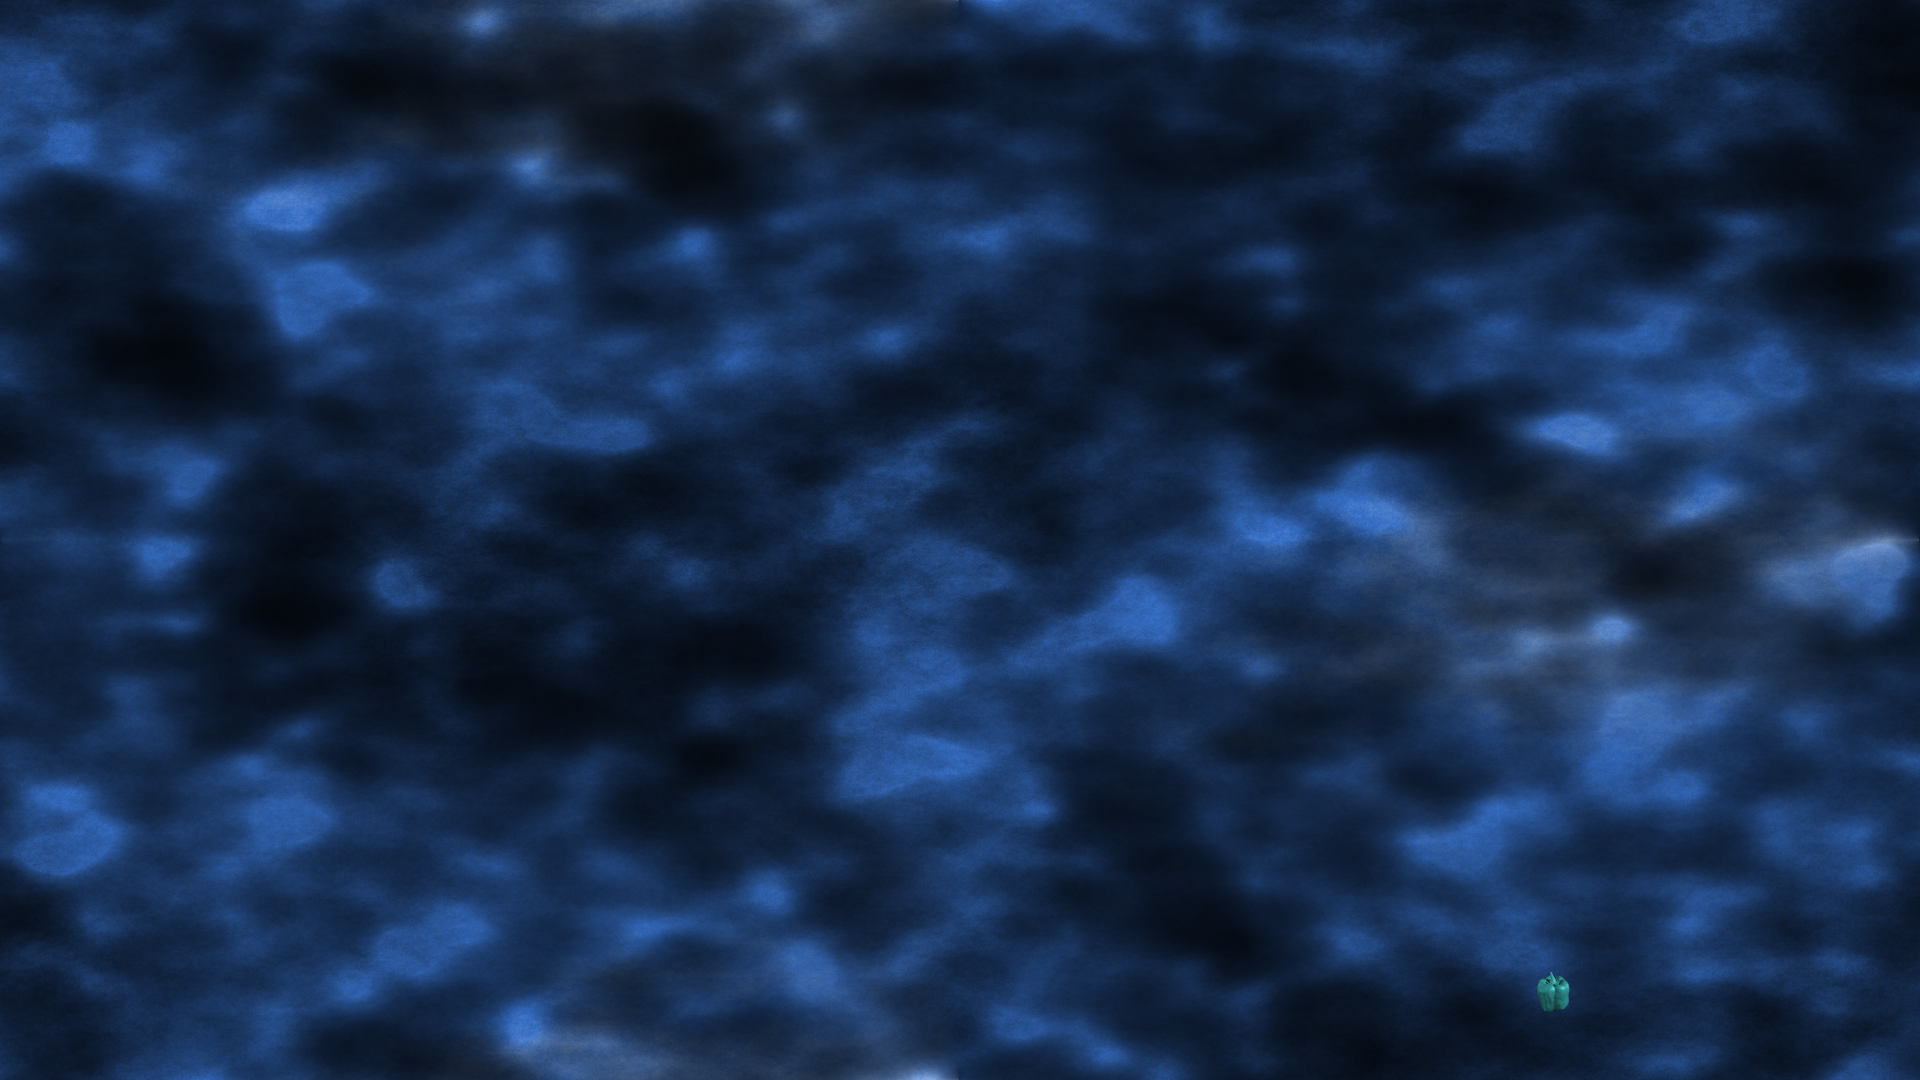
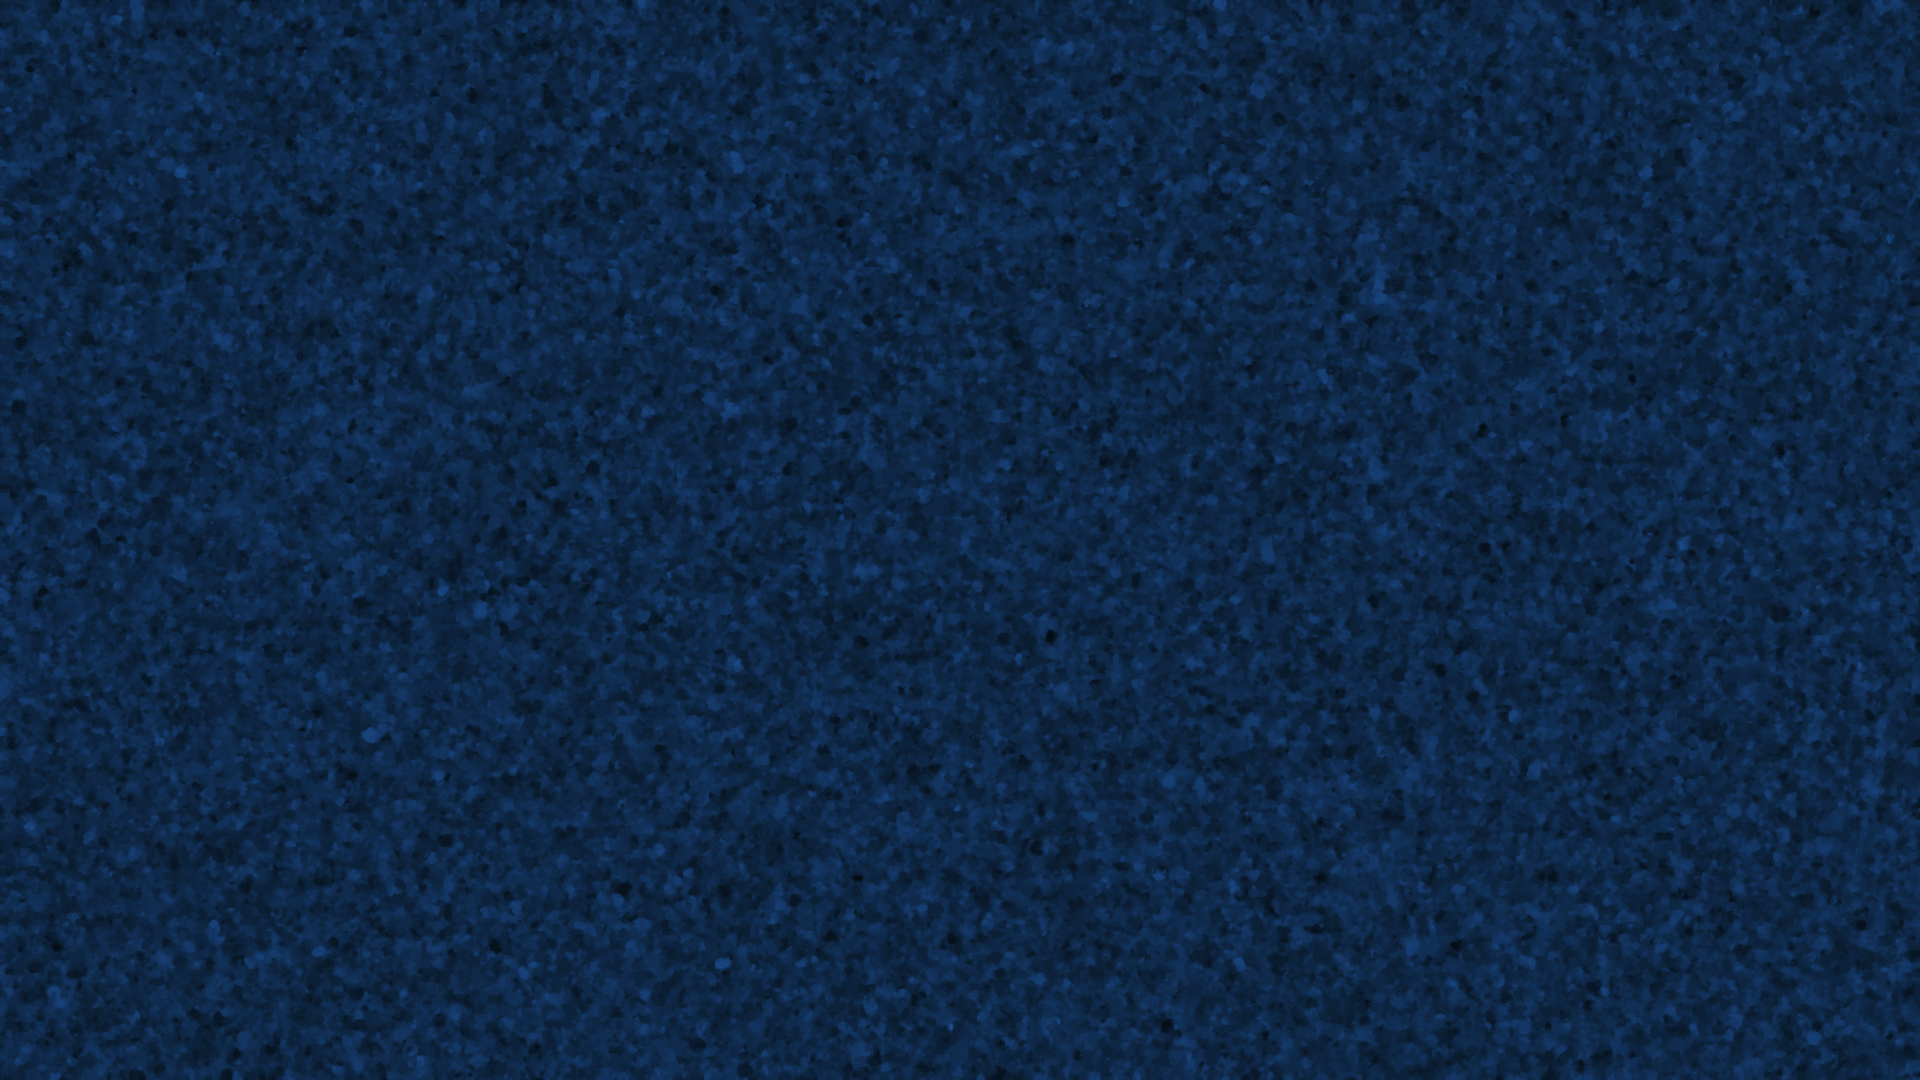
Improved water appearance

diff --git a/src/Game_rendering.cpp b/src/Game_rendering.cpp
@@ -218,11 +218,13 @@ void Game::paintGL() {
     static int frame_counter = 79;
 
     frame_counter++;
-
-    float t1 = ((frame_counter+ 0) % 100) / 50.0 - 1.0;
-    float t2 = ((frame_counter+25) % 100) / 50.0 - 1.0;
-    float t3 = ((frame_counter+50) % 100) / 50.0 - 1.0;
-    float t4 = ((frame_counter+75) % 100) / 50.0 - 1.0;
+    // the integration kernel walks from -1.0 to 1.0
+    const int period = 500;
+    const float phalfinv = 1.0f / float(period / 2);
+    float t1 = float((frame_counter +                0) % period) * phalfinv - 1.0f;
+    float t2 = float((frame_counter + (1 * period) / 4) % period) * phalfinv - 1.0f;
+    float t3 = float((frame_counter + (2 * period) / 4) % period) * phalfinv - 1.0f;
+    float t4 = float((frame_counter + (3 * period) / 4) % period) * phalfinv - 1.0f;
 
     glUniform1f( glGetUniformLocation(lic_program, "t1"), t1);
     glUniform1f( glGetUniformLocation(lic_program, "t2"), t2);
